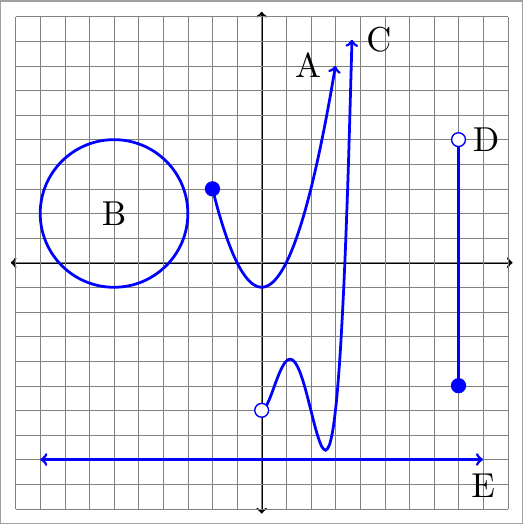
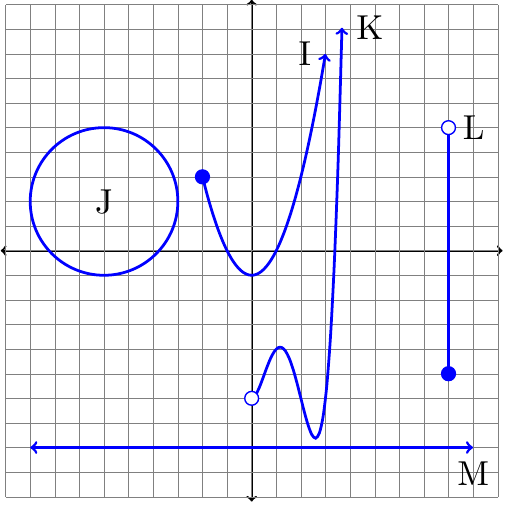
Revisions

Changed region(s): [[0.0, 0.0, 1.0, 1.0]]

diff --git a/tex/domainrange2.tex b/tex/domainrange2.tex
@@ -9,19 +9,19 @@
   % grid
   \draw[help lines, step = 0.5cm] (-5, -5) grid (5, 5);
 
-\draw[ultra thick, scale=0.5, domain=-3:3,smooth,variable=\x, blue] plot ({\x},{\x*\x}) node[right, black, scale=2] {A};
+\draw[ultra thick, scale=0.5, domain=-3:3,smooth,variable=\x, blue] plot ({\x},{\x*\x}) node[right, black, scale=2] {E};
 \draw [draw=blue, fill=white, thick] (-1.5,4.5) circle (4.0pt);
 \draw [draw=blue, fill=white, thick] (1.5,4.5) circle (4.0pt);
 
-\draw[ultra thick, scale=0.5, domain=-9:9,smooth,variable=\x, blue] plot ({\x},{-1/2*\x-2}) node[below, black, scale=2] {B};
+\draw[ultra thick, scale=0.5, domain=-9:9,smooth,variable=\x, blue] plot ({\x},{-1/2*\x-2}) node[below, black, scale=2] {F};
 \draw [draw=blue, fill=blue, thick] (-4.5,1.25) circle (4.0pt);
 \draw [draw=blue, fill=blue, thick] (4.5,-3.25) circle (4.0pt);
 
-\draw[ultra thick, scale=0.5, domain=-2.25:2.25,smooth,variable=\x, blue] plot ({\x},{-\x*\x-4}) node[right, black, scale=2] {C};
+\draw[ultra thick, scale=0.5, domain=-2.25:2.25,smooth,variable=\x, blue] plot ({\x},{-\x*\x-4}) node[right, black, scale=2] {G};
 \draw [draw=blue, fill=blue, thick] (-1.15,-4.5) circle (4.0pt);
 \draw [draw=blue, fill=white, thick] (1.15,-4.5) circle (4.0pt);
 
-\draw[ultra thick, scale=0.5, domain=-2.25:2.25,smooth,variable=\x, blue] plot ({\x*\x+3}, {\x}) node[right, black, scale=2] {D};
+\draw[ultra thick, scale=0.5, domain=-2.25:2.25,smooth,variable=\x, blue] plot ({\x*\x+3}, {\x}) node[right, black, scale=2] {H};
 \draw [draw=blue, fill=white, thick] (4,1.15) circle (4.0pt);
 \draw [draw=blue, fill=blue, thick] (4,-1.15) circle (4.0pt);
 

diff --git a/tex/domainrange3.tex b/tex/domainrange3.tex
@@ -9,19 +9,19 @@
   % grid
   \draw[help lines, step = 0.5cm] (-5, -5) grid (5, 5);
 
-\draw[ultra thick, scale=0.5, domain=-2:3,smooth,variable=\x, blue, ->] plot ({\x},{\x*\x-1}) node[left, black, scale=2] {A};
+\draw[ultra thick, scale=0.5, domain=-2:3,smooth,variable=\x, blue, ->] plot ({\x},{\x*\x-1}) node[left, black, scale=2] {I};
 \draw [draw=blue, fill=blue, thick] (-1,1.5) circle (4.0pt);
 
-\draw[ultra thick, blue] (-3,1) circle (1.5cm) node[black, scale=2] {B};;
+\draw[ultra thick, blue] (-3,1) circle (1.5cm) node[black, scale=2] {J};
 
-\draw[ultra thick, scale=0.5, domain=0:3.67,smooth,variable=\x, blue, ->] plot ({\x},{ \x*\x*(2-\x)*(3-\x)-6 }) node[right, black, scale=2] {C};
+\draw[ultra thick, scale=0.5, domain=0:3.67,smooth,variable=\x, blue, ->] plot ({\x},{ \x*\x*(2-\x)*(3-\x)-6 }) node[right, black, scale=2] {K};
 \draw [draw=blue, fill=white, thick] (0,-3) circle (4.0pt);
 
-\draw[ultra thick, scale=0.5, domain=-5:5,smooth,variable=\x, blue] plot ({8},{\x}) node[right, black, scale=2] {D};
+\draw[ultra thick, scale=0.5, domain=-5:5,smooth,variable=\x, blue] plot ({8},{\x}) node[right, black, scale=2] {L};
 \draw [draw=blue, fill=white, thick] (4,2.5) circle (4.0pt);
 \draw [draw=blue, fill=blue, thick] (4,-2.5) circle (4.0pt);
 
-\draw[ultra thick, scale=0.5, domain=-9:9,smooth,variable=\x, blue, <->] plot ({\x},{-8}) node[below, black, scale=2] {E};
+\draw[ultra thick, scale=0.5, domain=-9:9,smooth,variable=\x, blue, <->] plot ({\x},{-8}) node[below, black, scale=2] {M};
 
 \end{tikzpicture}
 \end{document}
